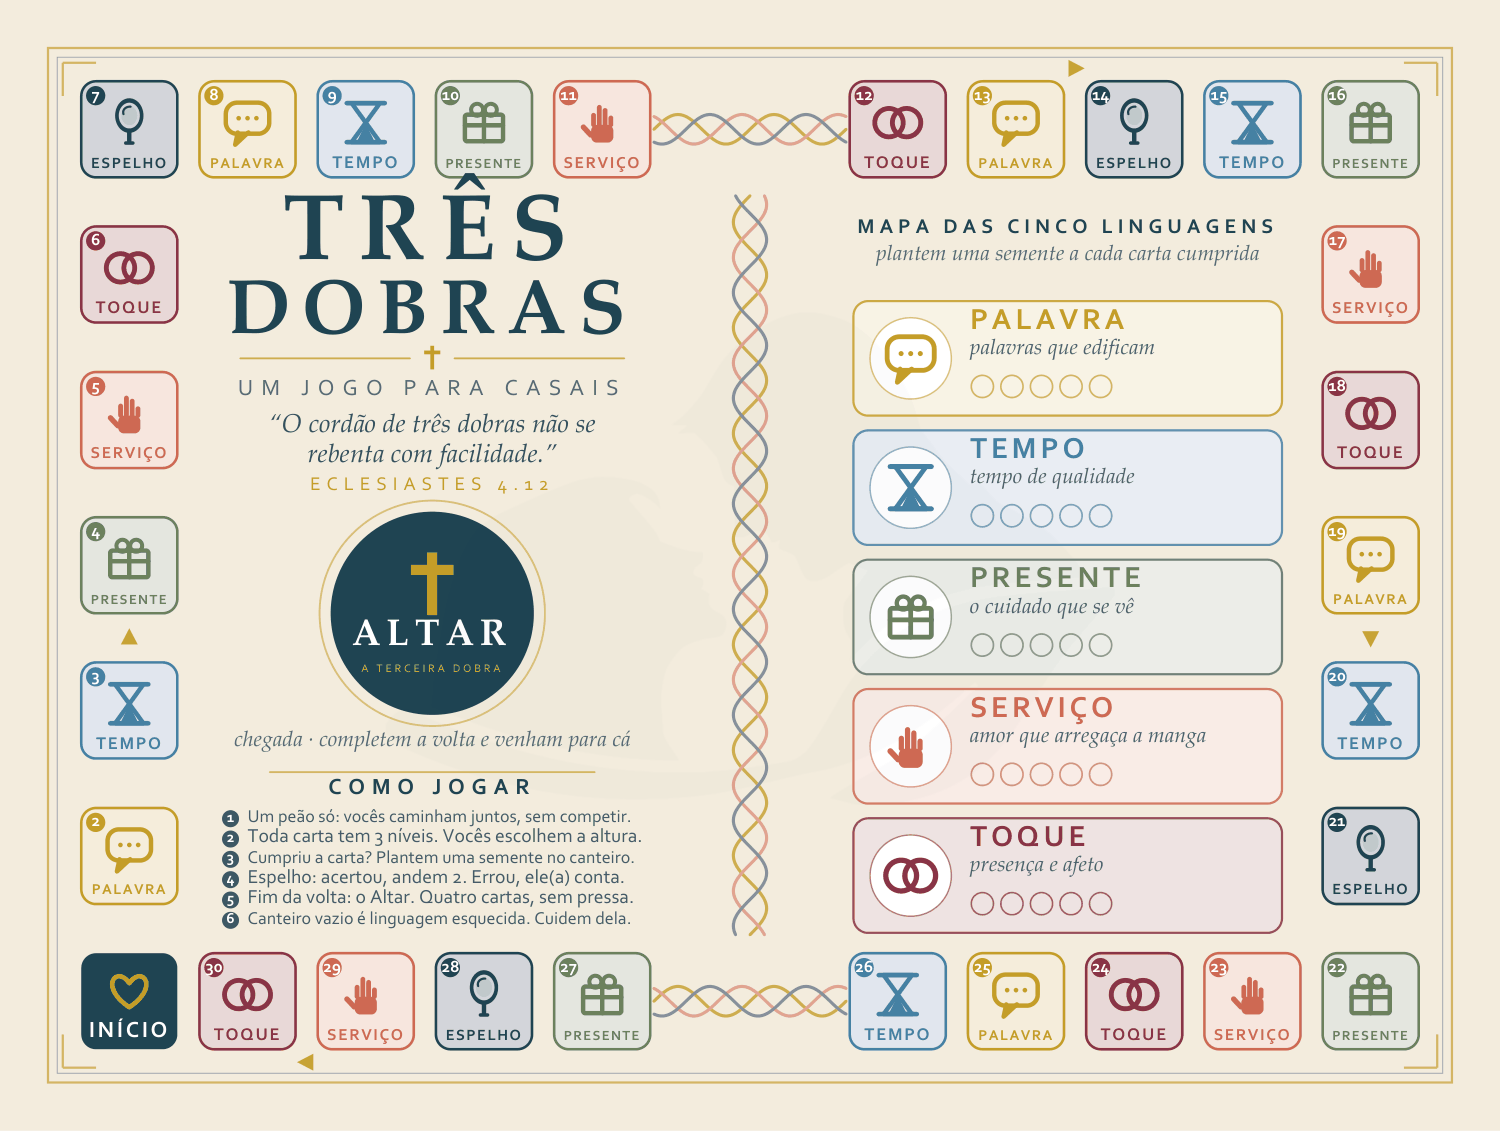
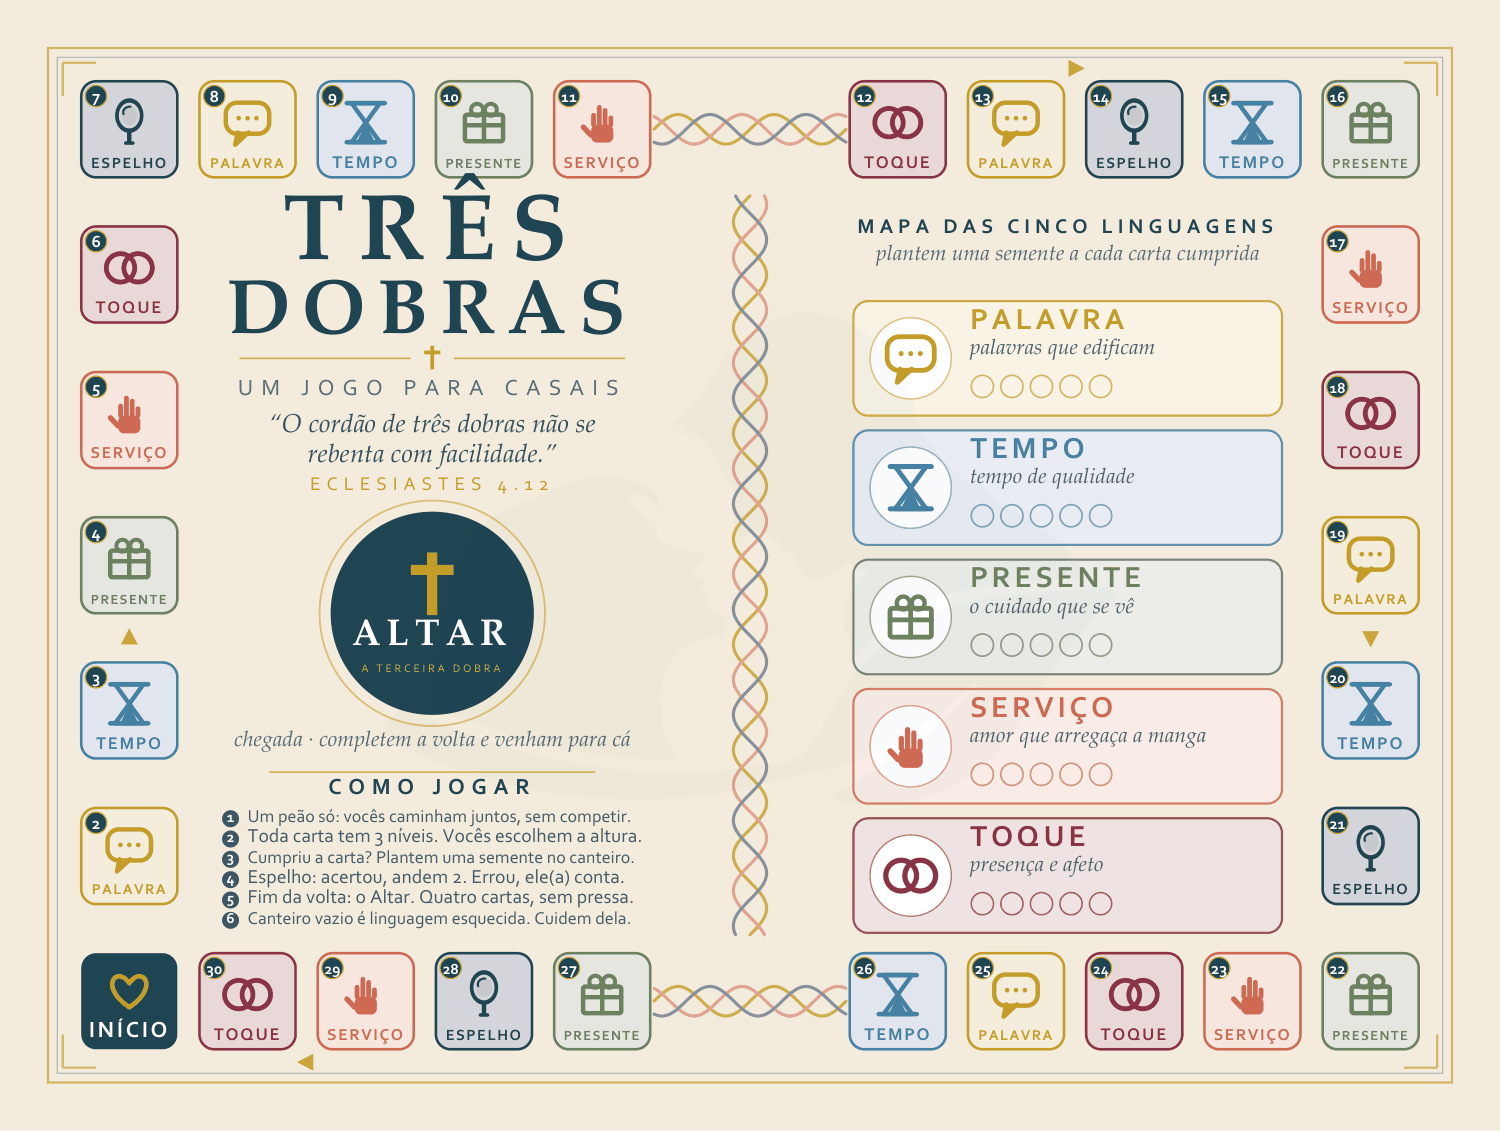
fix: numeros das casas padronizados + marca d'agua do tabuleiro a 15%
- Numeros das 30 casas agora seguem um padrao unico: circulo petroleo com
  borda dourada e numero branco, igual em todas (antes cada um usava a cor
  do naipe da casa, sem padrao). 2 digitos ajustam sozinhos ao circulo.
- Marca d'agua do casal na frente do tabuleiro mais definida (+2%, agora 15%).

Manual (docs/) e imagens do README regenerados. Checagem da dobra mantida.

diff --git a/src/tabuleiro.py b/src/tabuleiro.py
@@ -73,9 +73,12 @@ def casa(p, i, x, y, tipo):
     ICONES[tipo](p, x, y + 1.8, 12.0, cor)
     p.txt_fit(x, y - 10.4, NAIPES[tipo]["nome"], "TextoBold", 4.8, CEL - 5.0,
               cor, "c", tracking=0.45)
-    # número da casa
-    p.circ(x - CEL / 2 + 3.9, y + CEL / 2 - 3.9, 2.6, fill=cor)
-    p.txt(x - CEL / 2 + 3.9, y + CEL / 2 - 5.0, str(i), "TextoBold", 4.6, BRANCO, "c")
+    # número da casa — PADRÃO único em todas: círculo petróleo, número branco,
+    # borda dourada. (antes cada um usava a cor do naipe, sem padrão.)
+    bx, by = x - CEL / 2 + 4.0, y + CEL / 2 - 4.0
+    p.circ(bx, by, 2.9, fill=PETROLEO)
+    p.circ(bx, by, 2.9, stroke=tinta(DOURADO, 90), lw=0.35)
+    p.txt_fit(bx, by - 1.55, str(i), "TextoBold", 4.6, 4.4, BRANCO, "c")
 
 
 def seta(p, x, y, ang):
@@ -195,7 +198,7 @@ def frente(p):
     painel_esquerdo(p)
     painel_direito(p)
     # marca d'água grande e bem transparente, POR CIMA de tudo (overlay uniforme)
-    marca_casal(p, 200, 152, 205, PETROLEO, 13)
+    marca_casal(p, 200, 152, 205, PETROLEO, 15)
     p.marcas_corte(vinco_x=DOBRA_X, rotulo="TRES DOBRAS · TABULEIRO · FRENTE · 400x300mm · sangria 3mm · CMYK")
 
 